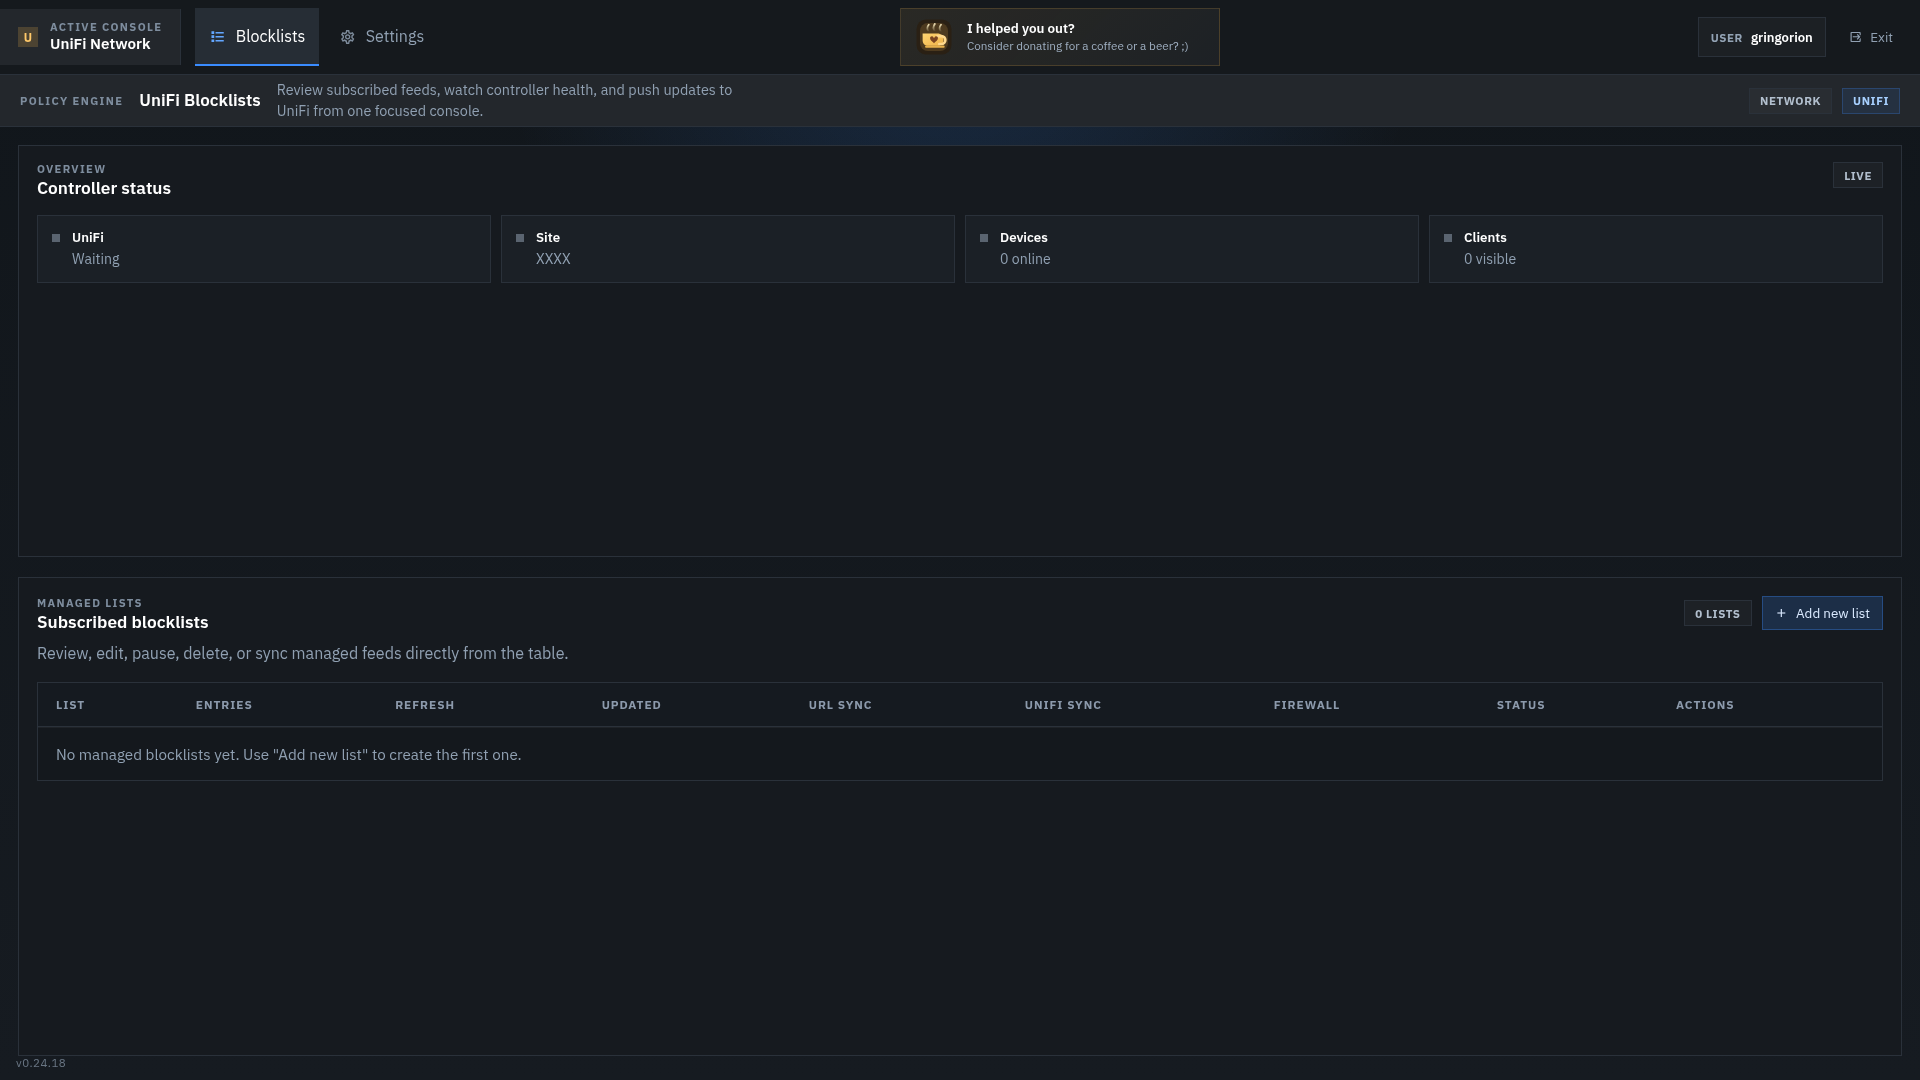
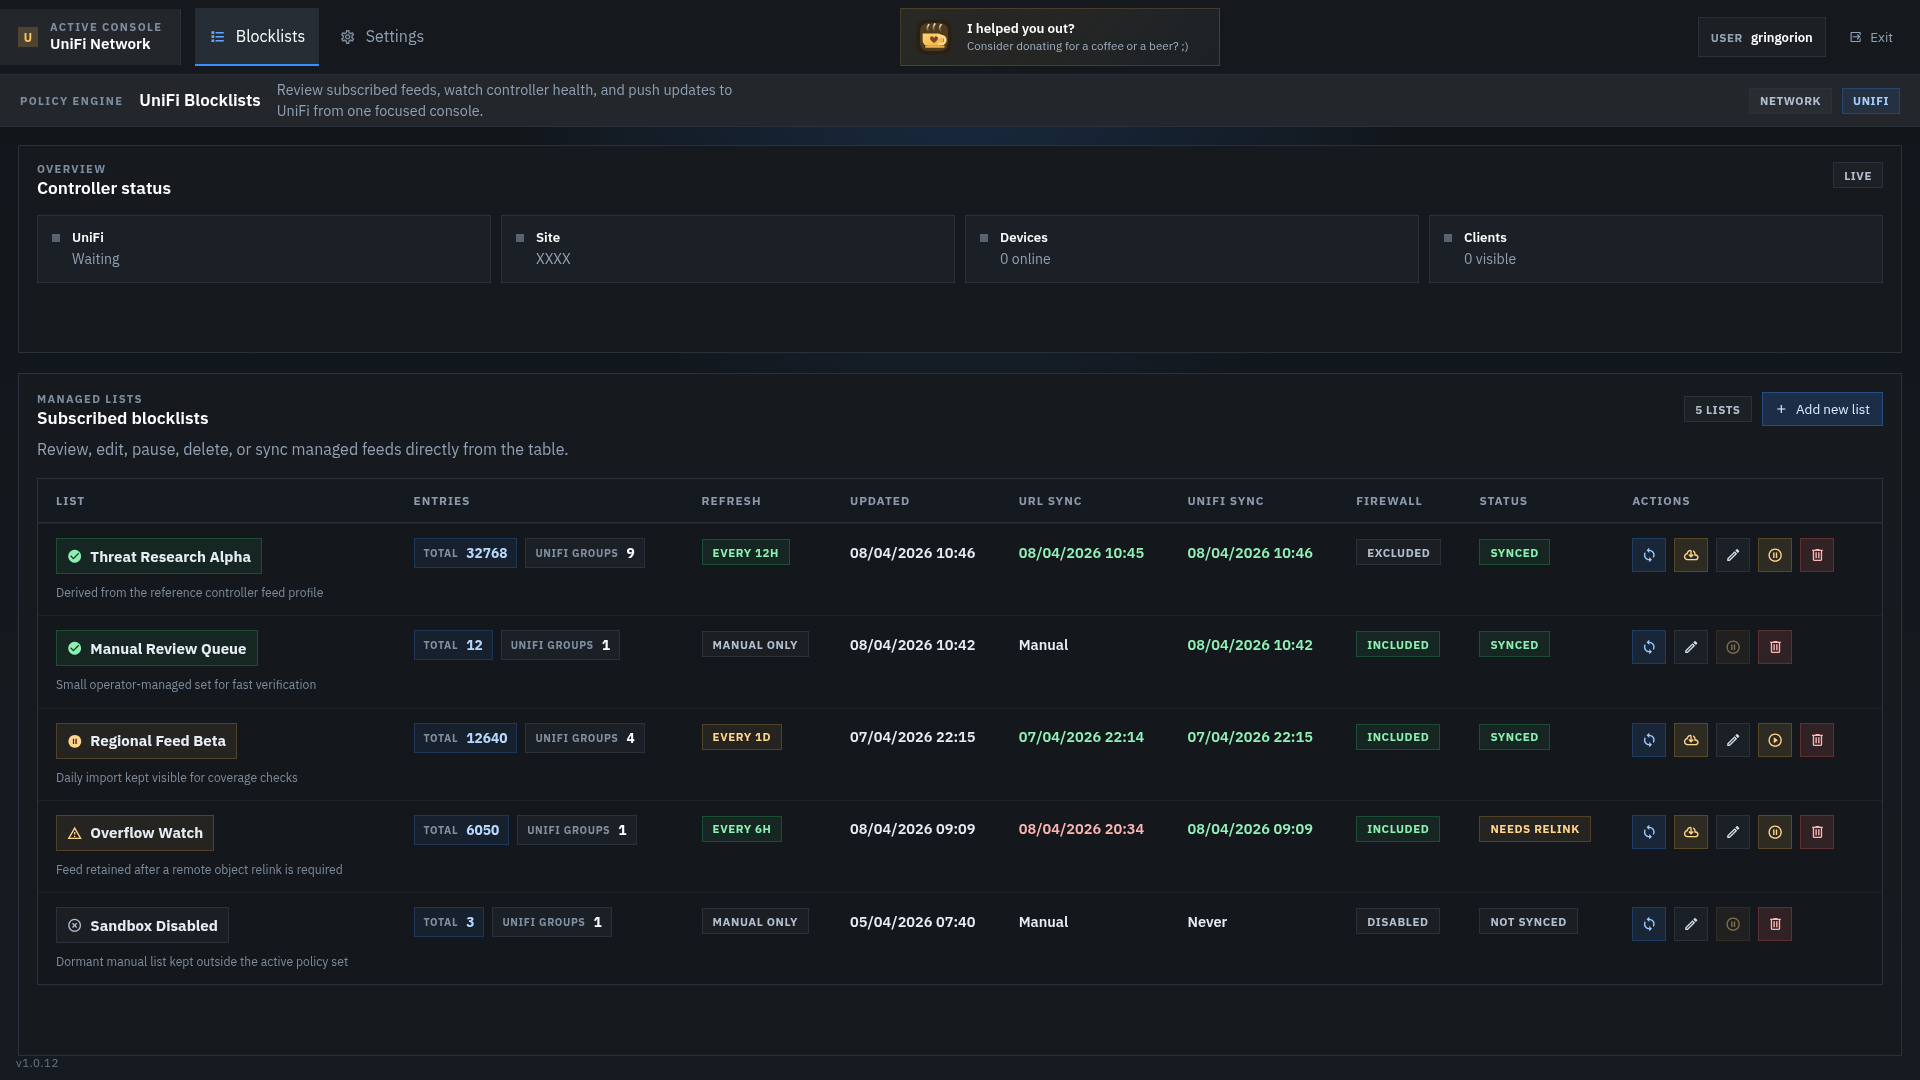
feat: enrich workflow screenshots with seeded examples

diff --git a/docs/forgejo-actions.md b/docs/forgejo-actions.md
@@ -159,6 +159,9 @@ What it does:
 - calls `/api/health` from the running app container
 - calls `/api/session` from the running app container
 - captures a sanitized UI screenshot at `.run/ci/ui-screenshot.png`
+- injects an anonymized sample dataset derived from the reference `192.168.40.131`
+  instance profile so the screenshot shows a fuller table and richer quick-status
+  values
 - keeps the usual screenshot anonymization for the Site ID
 - fails if visible text includes common key, token, password, or unexpected user strings
 - fails if the visible signed-in user is not `gringorion`
